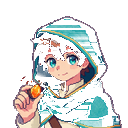
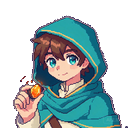
feat: 优化游戏体验与界面

diff --git a/scripts/cutout.py b/scripts/cutout.py
@@ -11,8 +11,9 @@ from collections import deque
 from PIL import Image
 import numpy as np
 
-THRESH = 48      # 颜色距离阈值：小于此值视为背景
-FEATHER = 28     # 羽化范围：阈值+feather 内的像素部分透明
+THRESH = 26      # 颜色距离阈值：小于此值视为背景
+FEATHER = 14     # 羽化范围：阈值+feather 内的像素部分透明
+GLOBAL_MARGIN = 30  # 全局背景距离安全余度：像素距全局背景超过 THRESH+FEATHER+此值 则绝非背景
 
 def color_dist(a, b):
     """RGB 欧氏距离"""
@@ -63,6 +64,11 @@ def cutout(path):
         d = np.sqrt(np.sum((rgb[y, x].astype(float) - ref) ** 2))
         if d > THRESH + FEATHER:
             continue  # 不是背景，停止蔓延
+        # 全局背景距离安全检查：距全局背景过远的像素绝非背景，
+        # 防止 flood fill 经渐变路径游走进角色内部（解决"抠过头"）
+        dg = np.sqrt(np.sum((rgb[y, x].astype(float) - bg_ref) ** 2))
+        if dg > THRESH + FEATHER + GLOBAL_MARGIN:
+            continue
         # 在阈值内 → 完全透明；在羽化范围 → 部分透明
         if d <= THRESH:
             alpha[y, x] = 0
